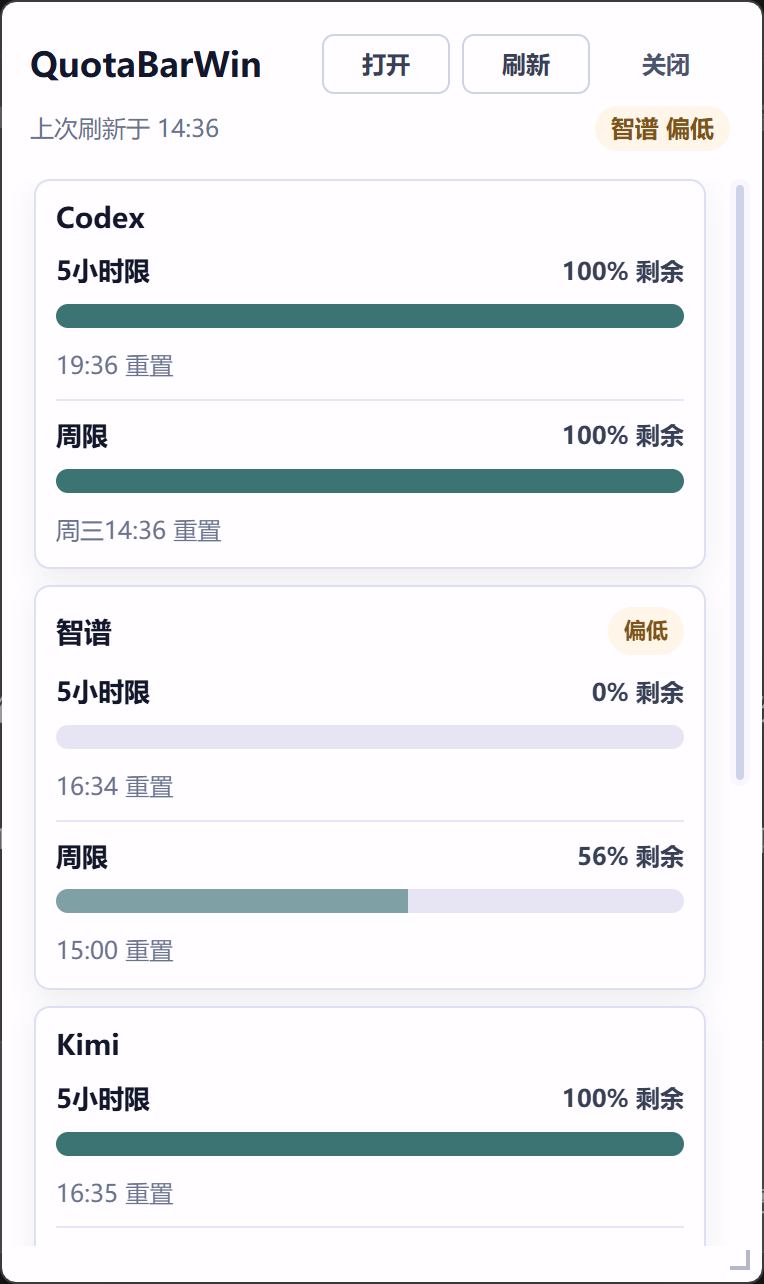
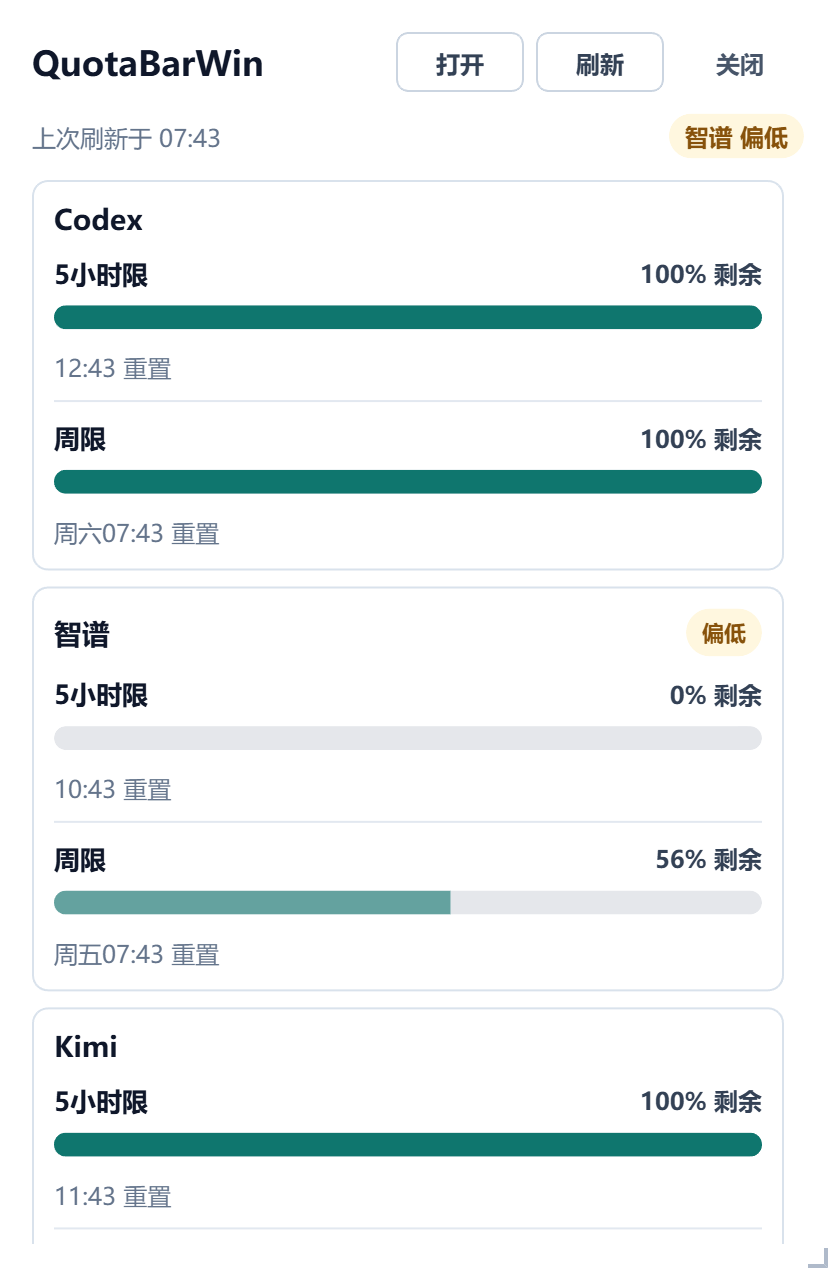
chore(release): prepare v1.7.0

diff --git a/README.en.md b/README.en.md
@@ -32,7 +32,7 @@ Default documentation is Simplified Chinese: [README.md](README.md).
 
 - Platform: **Windows**
 - Distribution: **portable zip + single exe**
-- Current version: **v1.6.3**
+- Current version: **v1.7.0**
 - Stack: Tauri 2, Rust 2021, React 19, TypeScript, Vite
 - Current config schema version: **26**
 
@@ -194,7 +194,7 @@ The CLI can also validate Provider configuration, manifest, source checksum, and
 - In-app event history records app starts/updates, quota resets/unexpected recoveries/exhaustion/low quota, and Provider failures/recoveries; stored locally, filterable, and clearable.
 - Supports event notifications via Windows toasts (body includes the event time) and webhooks (JSON POST, with an optional custom body template), with per-event-type selection and a test-notification button.
 - Includes Windows tray integration, hidden startup, single-instance behavior, and a resizable tray popup.
-- The tray popup can copy one Provider's display or all Provider displays as an image with the app icon, name, version, and capture time. Images go directly to the clipboard without being saved as files.
+- The tray popup can copy one Provider's display or all Provider displays as an image with the app icon, name, version, and capture time. Camera actions fade in on hover or keyboard focus, and images go directly to the clipboard without being saved as files. When a reset time uses a weekday-and-time label, hovering reveals the full local date and time.
 - The Settings page is organized into Provider / General / Notifications / Application update / Advanced categories: General keeps the refresh interval, display mode, language, theme, and launch-at-startup; the low-quota warning threshold is edited under Notifications, with a summary and shortcut in General; the network proxy, local integration API, secret security, config storage, and logging live under Advanced. The theme follows Windows by default and can be fixed to light or dark.
 - Supports AppData storage and portable mode. Portable mode keeps config, logs, secrets, and cached remote providers beside the exe.
 - Supports Provider enablement, ordering, visible quota windows, and custom window labels.

diff --git a/README.md b/README.md
@@ -32,7 +32,7 @@ macOS 用户可以使用或参考 [CodexBar](https://github.com/steipete/CodexBa
 
 - 平台：**Windows**
 - 分发方式：**绿色版 portable zip + 单 exe**
-- 当前版本：**v1.6.3**
+- 当前版本：**v1.7.0**
 - 技术栈：Tauri 2、Rust 2021、React 19、TypeScript、Vite
 - 当前配置 schema version：**26**
 
@@ -194,7 +194,7 @@ CLI 也可在安装前或排障时校验提供方配置、manifest、source chec
 - 应用内「事件历史」页记录应用启动/升级、额度重置/异常回升/用尽/偏低、提供方异常与恢复等事件，仅存本机、可筛选可清空。
 - 支持事件通知：Windows 系统通知（toast，正文含事件时间）与 Webhook（JSON POST，可自定义消息模板），可按事件类型勾选并支持「发送测试通知」。
 - 支持 Windows 托盘、隐藏启动、单实例运行和可调整尺寸的托盘弹窗。
-- 托盘弹窗可一键复制单个或全部提供方的展示截图；成品图包含应用图标、名称、版本与截图时间，仅写入剪贴板，不保存为文件。
+- 托盘弹窗可复制单个或全部提供方的展示截图；相机按钮在悬停或键盘聚焦时淡入，成品图包含应用图标、名称、版本与截图时间，仅写入剪贴板，不保存为文件。重置时间显示为「周几 + 时间」时，悬停可查看完整日期和时间。
 - 设置页按「提供方 / 通用 / 通知 / 应用更新 / 高级」分类组织：通用保留刷新间隔、显示模式、语言、亮/暗主题与开机启动；低额度警告阈值统一在「通知」中编辑，通用页提供摘要与跳转；网络代理、本地集成 API、密钥安全、配置存储与日志归入「高级」。主题默认跟随 Windows 系统，并可固定为浅色或深色。
 - 支持 AppData 配置和便携模式；便携模式会把配置、日志、secrets 和远程提供方缓存放在 exe 旁。
 - 支持提供方启用状态、排序、自定义窗口显示和窗口名称覆盖。

diff --git a/CHANGELOG.en.md b/CHANGELOG.en.md
@@ -2,10 +2,16 @@
 
 This file records user-visible changes in QuotaBarWin. Simplified Chinese counterpart: [CHANGELOG.md](CHANGELOG.md).
 
-## [Unreleased]
+## [1.7.0] - 2026-11-04
+
+### Added
+
+- The tray popup can now copy display images for one Provider or all Providers. Images include the app icon, name, version, and capture time and are written directly to the clipboard without saving a file. Camera actions fade in on hover or keyboard focus and stay visually unobtrusive by default.
 
 ### Changed
 
+- When a reset time uses a weekday-and-time label, hovering now reveals the full local date and time in both the main window and tray popup.
+- Improved alignment between the tray popup header and Provider cards, and balanced the spacing above and below the last-refresh row.
 - The Add Provider catalog now prefers the last successfully cached registry, manifests, and scripts and shows the cache time instead of requiring network access every time the page opens or Install is clicked. Use **Refresh List** to fetch new upstream content explicitly; a failed refresh preserves the previous cache. After a successful cache download, catalog Providers can be installed and additional accounts can be added while offline.
 
 ## [1.6.3] - 2026-10-28

diff --git a/CHANGELOG.md b/CHANGELOG.md
@@ -2,10 +2,16 @@
 
 本文记录 QuotaBarWin 的用户可见变化。默认以简体中文维护；英文对照版见 [CHANGELOG.en.md](CHANGELOG.en.md)。
 
-## [Unreleased]
+## [1.7.0] - 2026-11-04
+
+### Added
+
+- 托盘弹窗新增展示截图复制：可复制单个或全部提供方，成品图包含应用图标、名称、版本和截图时间，并直接写入剪贴板，不保存为文件。相机按钮在鼠标悬停或键盘聚焦时淡入，默认不占用视觉注意力。
 
 ### Changed
 
+- 重置时间显示为「周几 + 时间」时，鼠标悬停可查看完整的本地日期和时间；主窗口与托盘弹窗均支持。
+- 优化托盘弹窗标题区与提供方卡片的对齐，并统一刷新时间行的上下间距。
 - 「添加提供方」目录现在优先使用上次成功缓存的 registry、manifest 和脚本，并显示缓存时间，不再每次打开或点击安装都强制联网。需要最新内容时可点击「刷新列表」手动重新拉取；拉取失败会继续保留旧缓存。成功缓存后，即使暂时断网也能安装目录中的提供方或继续添加账号。
 
 ## [1.6.3] - 2026-10-28

diff --git a/docs/local-integration-api.en.md b/docs/local-integration-api.en.md
@@ -48,7 +48,7 @@ Reports the API version and whether a snapshot is available.
 ```json
 {
   "apiVersion": 1,
-  "appVersion": "1.6.3",
+  "appVersion": "1.7.0",
   "snapshotAvailable": true
 }
 ```

diff --git a/docs/local-integration-api.md b/docs/local-integration-api.md
@@ -48,7 +48,7 @@ Authorization: Bearer <在设置页中取得的令牌>
 ```json
 {
   "apiVersion": 1,
-  "appVersion": "1.6.3",
+  "appVersion": "1.7.0",
   "snapshotAvailable": true
 }
 ```
